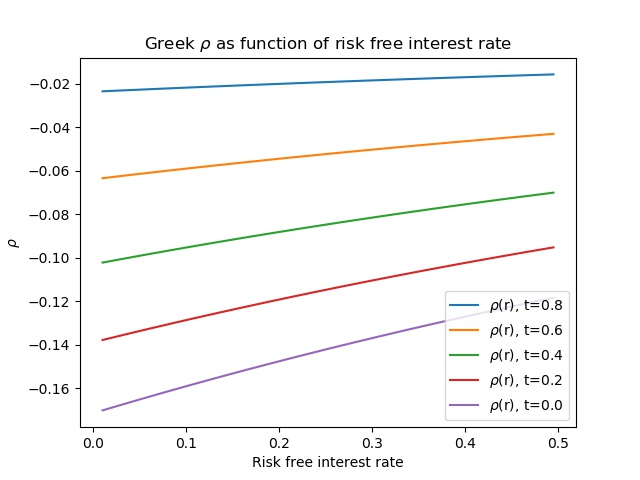
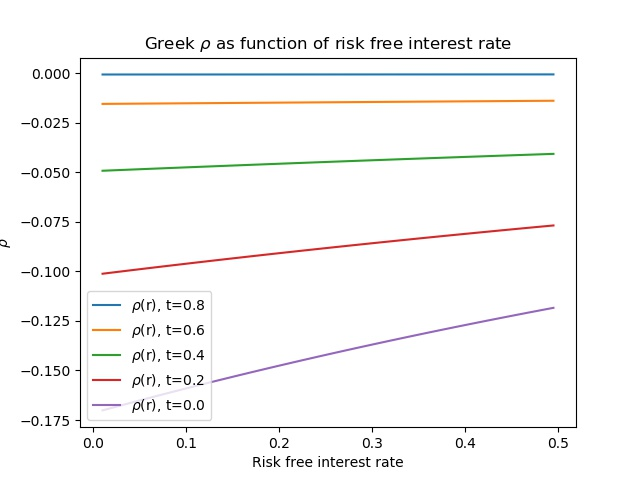
Found bug in greeks in BLack_sholes.cpp.

diff --git a/Project5/CodeBase/Black_scholes.cpp b/Project5/CodeBase/Black_scholes.cpp
@@ -19,7 +19,7 @@
 using namespace arma;
 using namespace std;
 
-
+//Initialize the boundary, intial conditions and all parameters needed for calc.
 void Black_scholes::Initialize(double T,double L, int N,string filename,
                                 double r, double D, double sigma, double E){
   m_filename = filename;
@@ -52,12 +52,14 @@ void Black_scholes::Initialize(double T,double L, int N,string filename,
     m_uPrev(i)= exp(m_x(i)*m_a)*E*std::max(0.,exp(m_x(i))-1.);
   }
 }
-
+//Calculates our V_tilde, aka our know vector in the tridiag algorithm.
 void Black_scholes::calc_utilde(double t){
   for(int i=1;i<m_N-1; i++){
     m_utilde(i) = m_sigma2*m_alpha*m_uPrev(i-1) + (2.0-m_sigma2*2.*m_alpha)*m_uPrev(i) +m_sigma2*m_alpha*m_uPrev(i+1);
   }
 }
+//Used as our main algorithm when running all the functions and impliments the Crank_Nic
+//scheme.
 void Black_scholes::Crank_Nic(int print_per){
   init_print();
   double t = 0;
@@ -76,7 +78,7 @@ void Black_scholes::Crank_Nic(int print_per){
   }
   cout << " "<<endl;
 }
-
+//Impliments the tridiagonal matrix algorithm.
 vec Black_scholes::Tridiag(){
   vec d(m_N-1); d.fill(2.+2.*m_alpha*m_sigma2);
   vec b(m_N-2); b.fill(-m_alpha*m_sigma2);
@@ -101,7 +103,7 @@ vec Black_scholes::Tridiag(){
   return u;
 }
 
-
+//Transforms our calculated u(x,\tau) to V(S,t)
 vec Black_scholes::transform_u_V(vec u,double t){
   vec V = vec(m_N);
   for(int i =0;i<m_N;i++){
@@ -109,6 +111,9 @@ vec Black_scholes::transform_u_V(vec u,double t){
   }
   return V;
 }
+//Used to run all funtions to spesifically find the greeks. Could have been made
+//smarter, but we decided that it was not a good use of time as it is only
+//used to vizuallize the greeks once.
 void Black_scholes::Greeks(vec sigma,vec r, string rfilename,string sfilename){
   double r_fast = 0.04;
   double simga_fast = 0.4;
@@ -117,19 +122,21 @@ void Black_scholes::Greeks(vec sigma,vec r, string rfilename,string sfilename){
   int N=2e2;
   double D=0.12;
   double E=50;
+  double t = 0;
+  double t2 = 0;
+  int N1 = sigma.n_elem;
+  int N2 = r.n_elem;
   string filename="NAN.txt";
 
   ofstream ofile;
   ofile.open(sfilename);
-  int N1 = sigma.n_elem;
-  int N2 = r.n_elem;
+
 
   for (int j = 0; j < N1; j++){
     ofile << setw(20) << setprecision(8) << sigma(j) << " ";
   }
   ofile << setw(20) << setprecision(8) << " " << endl;
 
-  double t = 0;
   for (int i = 1; i < 6; i++){
     t = i/5. * T;
     ofile << setw(20) << setprecision(8) << t << " ";
@@ -152,24 +159,24 @@ void Black_scholes::Greeks(vec sigma,vec r, string rfilename,string sfilename){
     ofile << setw(20) << setprecision(8) << r(j)<< " ";
   }
   ofile << setw(20) << setprecision(8) << " " << endl;
-  double t2 = 0;
+
   for (int i = 1; i < 6; i++){
-    t2 = i/5. * T;
+    t2 = (double)i/5. * T;
     ofile << setw(20) << setprecision(8) << t2 << " ";
     for(int k=0;k<N2;k++){
       Initialize(t2,X,N,filename,r(k),D,simga_fast,E);
-      m_utilde(m_N-1)=(m_S(m_N-1)*exp(-t*m_D)-m_E*exp(-m_r*t))*exp(m_a*m_x(m_N-1)+m_b*t);
-      calc_utilde(t);
+      m_utilde(m_N-1)=(m_S(m_N-1)*exp(-t2*m_D)-m_E*exp(-m_r*t2))*exp(m_a*m_x(m_N-1)+m_b*t2);
+      calc_utilde(t2);
       vec u = Tridiag();
-      vec V = transform_u_V(u,t);
+      vec V = transform_u_V(u,t2);
 
       ofile << setw(20) << setprecision(8) << V(N1-2) << " ";
     }
     ofile << setw(20) << setprecision(8) <<  " " << endl;
   }
   ofile.close();
-
 }
+//Empties the txt file, and adds the S-values at the top.
 void Black_scholes::init_print(){
   ofstream ofile;
   ofile.open(m_filename);
@@ -181,7 +188,7 @@ void Black_scholes::init_print(){
   print_vals(V_0,0);
   ofile.close();
 }
-
+//Print all V values.
 void Black_scholes::print_vals(vec u,double t){
   ofstream ofile;
   ofile.open(m_filename, fstream::app);

diff --git a/Project5/CodeBase/visualize_greeks.py b/Project5/CodeBase/visualize_greeks.py
@@ -4,12 +4,14 @@ from scipy import special, stats
 from scipy.interpolate import UnivariateSpline
 from scipy.misc import derivative
 
-
+"""
+This code is used to calculate analytical values for thr greeks and vizuallize
+the numerical and analytical values for the greeks.
+"""
 sigma = 0.4
 E = 50
 r = 0.04
 D = 0.12
-
 
 data = open("u.txt", "r")
 
@@ -19,7 +21,6 @@ t = []
 
 for val in data.readline().split():
     S.append(float(val))
-
 
 for line in data:
     t.append(float(line.split()[0]))
